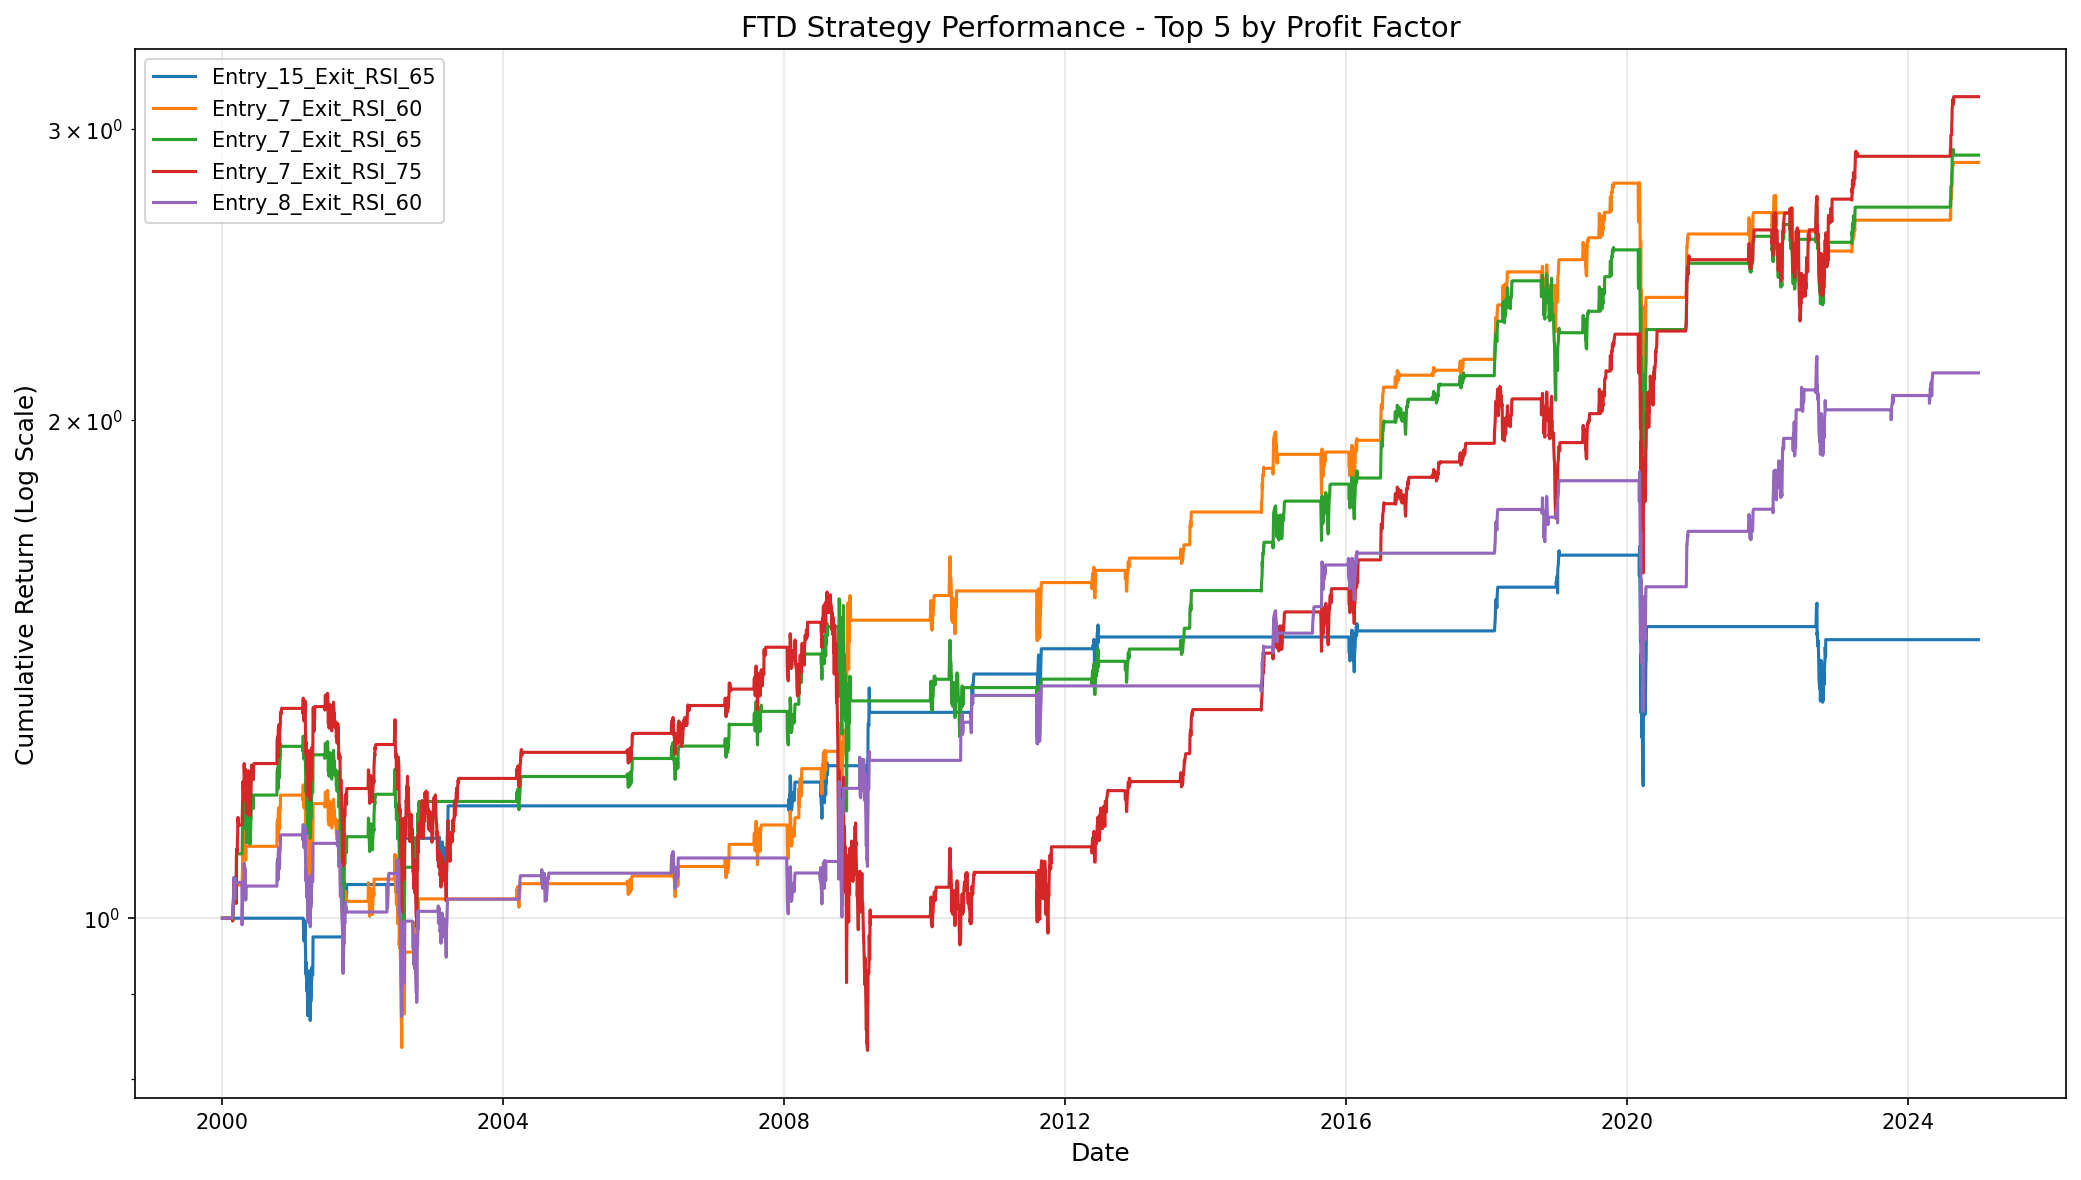
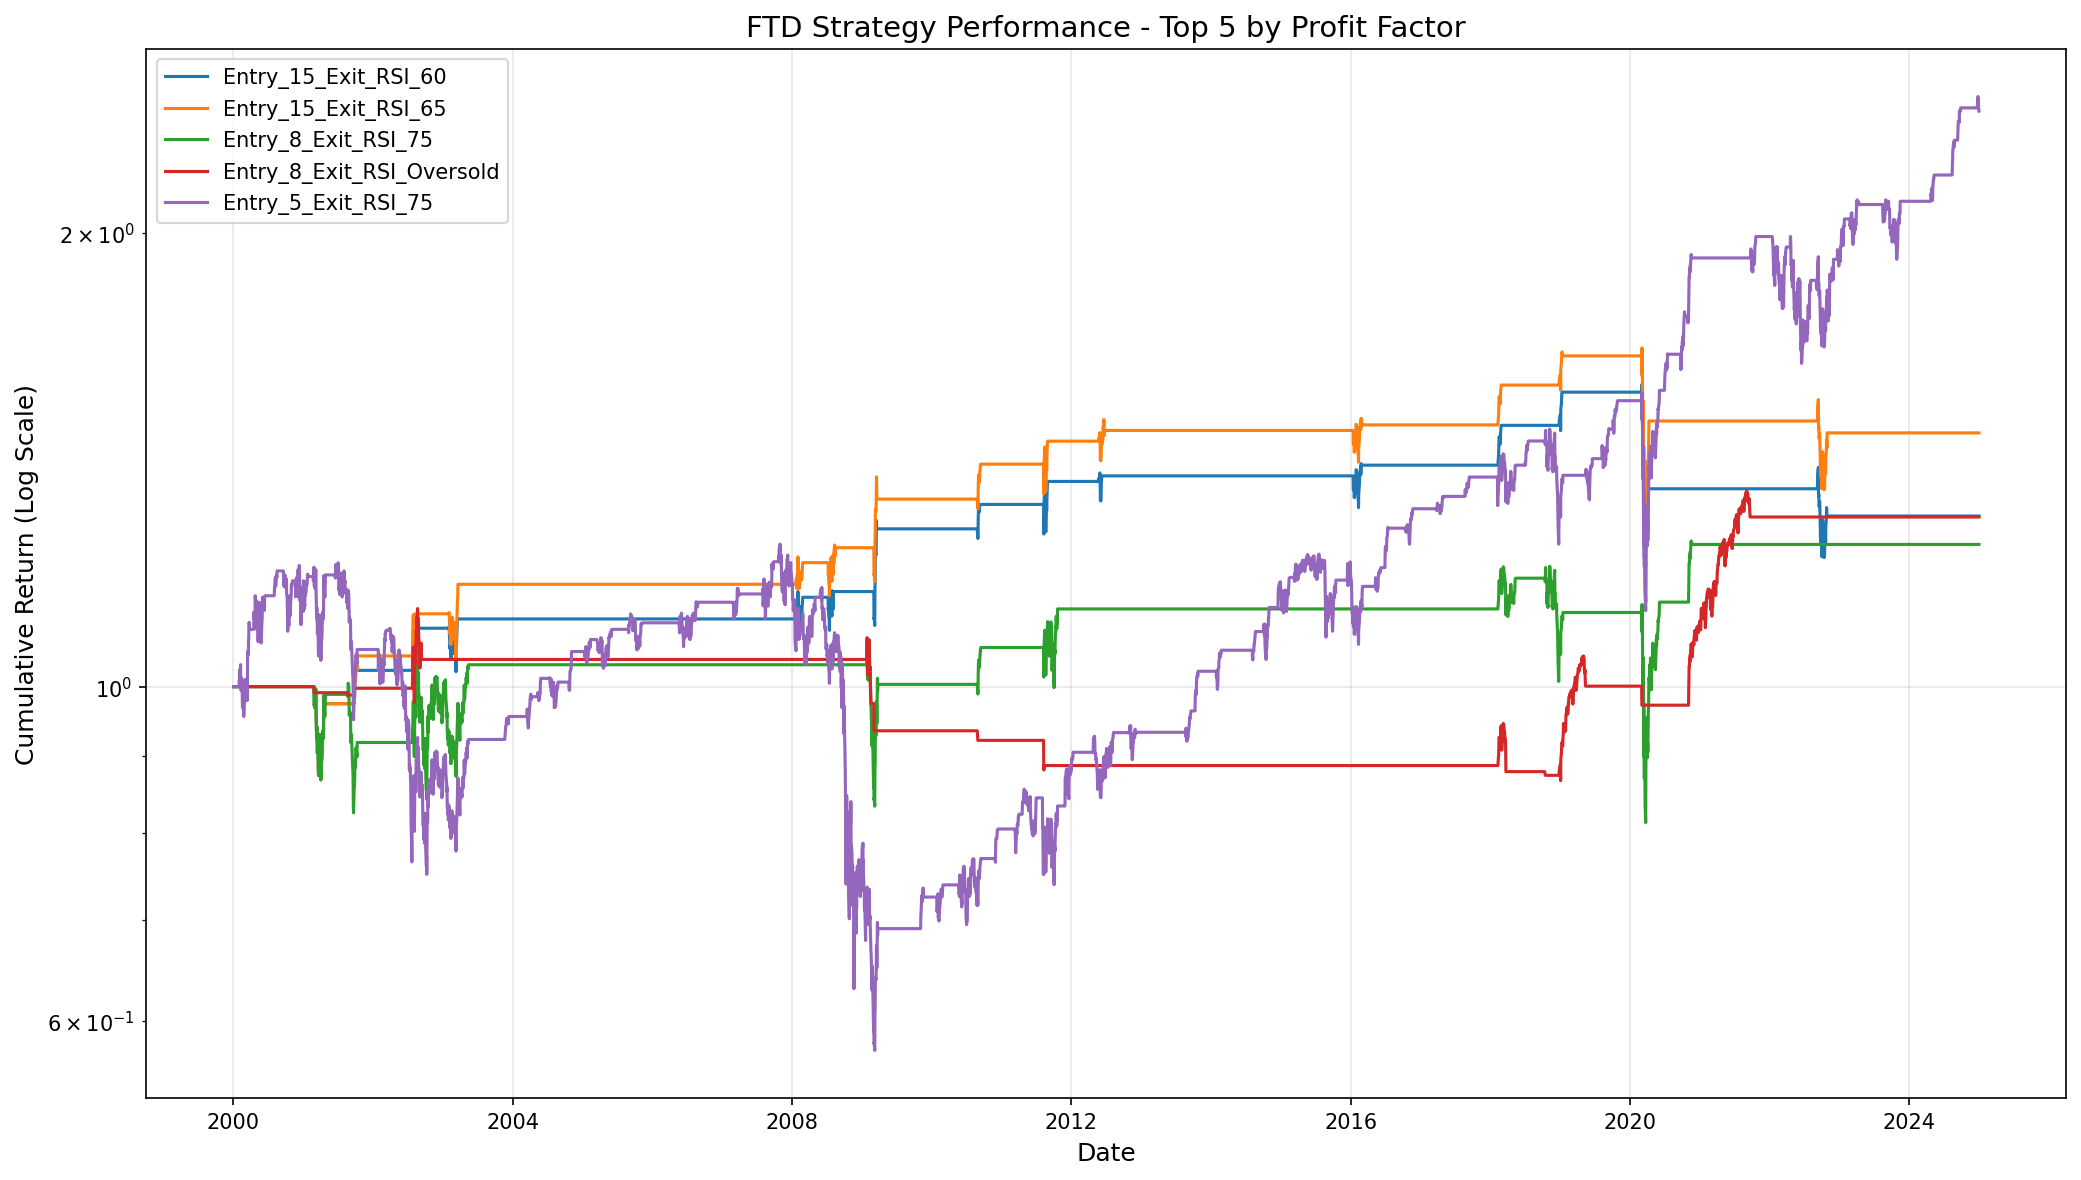
Fix: Add FTD criteria to Entry_7 and Entry_8
- Entry_7 was missing FTD - only had RSI < 30 + Volume Spike
- Entry_8 was missing FTD - only had RSI < 30 + Gap Up
- Both now include: RSI < 30 + FTD + additional filter
- Trade counts dropped: Entry_7 (49->6), Entry_8 (38->12)
- All top 5 entries now include FTD as intended

diff --git a/ftd_strategy.py b/ftd_strategy.py
@@ -167,17 +167,19 @@ def entry_condition_6(df):
 
 
 def entry_condition_7(df):
-    """Entry 7: Volume Spike - Volume > 1.5x average after RSI oversold"""
+    """Entry 7: Volume Spike - RSI < 30 + FTD + Volume > 1.5x average"""
     rsi_oversold = df['RSI'] < 30
+    ftd = (df['IBS'] > 0.5) & (df['Daily_Return'] > 0.01)
     volume_spike = df['Volume_Ratio'] > 1.5
-    return rsi_oversold & volume_spike
+    return rsi_oversold & ftd & volume_spike
 
 
 def entry_condition_8(df):
-    """Entry 8: Gap Up - Gap up > 0.5% after RSI oversold"""
+    """Entry 8: Gap Up - RSI < 30 + FTD + Gap up > 0.5%"""
     rsi_oversold = df['RSI'] < 30
+    ftd = (df['IBS'] > 0.5) & (df['Daily_Return'] > 0.01)
     gap_up = df['Gap'] > 0.005
-    return rsi_oversold & gap_up
+    return rsi_oversold & ftd & gap_up
 
 
 def entry_condition_9(df):
